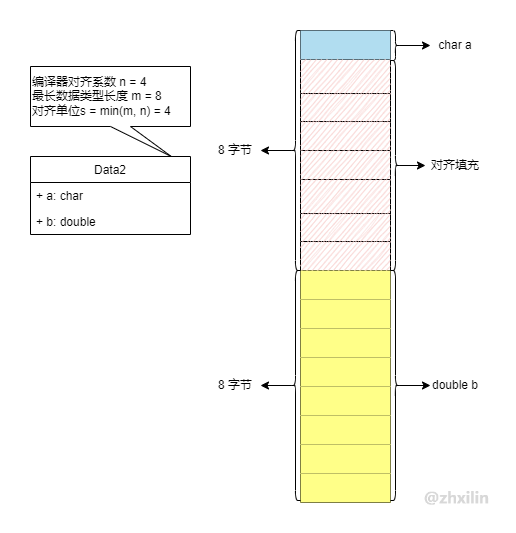
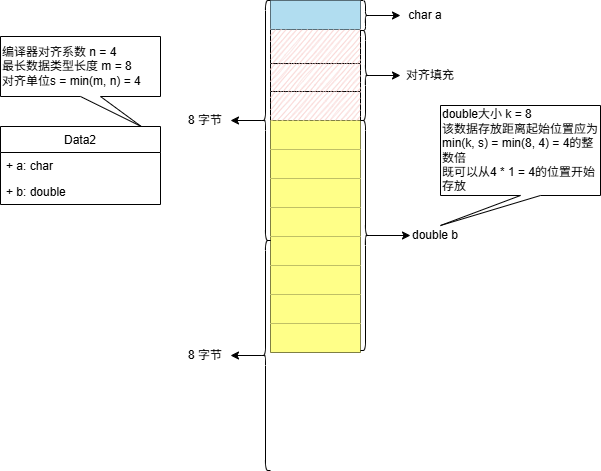
Update post 'memory_alignment'

diff --git a/post/tech_stack/1_programming_language/modern_cpp/language_base/memory_alignment/index.html b/post/tech_stack/1_programming_language/modern_cpp/language_base/memory_alignment/index.html
@@ -315,7 +315,7 @@
 <p>整体对齐规则：整个结构体的大小应是对齐单位<code>s</code>的整数倍。</p>
 </li>
 </ul>
-<p>接下来我们通过一些例子来体会内存对齐规则。</p>
+<p>接下来我们通过一些例子来体会内存对齐规（以gcc编译器对齐系数<code>4</code>为分析环境）。</p>
 <h3 id="case-1">case 1</h3>
 <div class="highlight"><pre class="chroma"><code class="language-cpp" data-lang="cpp"><span class="ln">1</span><span class="k">struct</span> <span class="nc">Data1</span> <span class="p">{</span>
 <span class="ln">2</span>    <span class="kt">char</span> <span class="n">a</span><span class="p">;</span>
@@ -330,7 +330,7 @@
 <span class="ln">3</span>    <span class="kt">double</span> <span class="n">b</span><span class="p">;</span>
 <span class="ln">4</span><span class="p">};</span>
 <span class="ln">5</span>
-<span class="ln">6</span><span class="n">std</span><span class="o">::</span><span class="n">cout</span> <span class="o">&lt;&lt;</span> <span class="k">sizeof</span><span class="p">(</span><span class="n">Data2</span><span class="p">)</span> <span class="o">&lt;&lt;</span> <span class="n">std</span><span class="o">::</span><span class="n">endl</span><span class="p">;</span> <span class="c1">//16
+<span class="ln">6</span><span class="n">std</span><span class="o">::</span><span class="n">cout</span> <span class="o">&lt;&lt;</span> <span class="k">sizeof</span><span class="p">(</span><span class="n">Data2</span><span class="p">)</span> <span class="o">&lt;&lt;</span> <span class="n">std</span><span class="o">::</span><span class="n">endl</span><span class="p">;</span> <span class="c1">//12
 </span></code></pre></div><p><img src="/images/memory_alignment_case2.png" alt="内存对齐case2"></p>
 <h3 id="case-3">case 3</h3>
 <div class="highlight"><pre class="chroma"><code class="language-cpp" data-lang="cpp"><span class="ln">1</span><span class="k">struct</span> <span class="nc">Data3</span> <span class="p">{</span>
@@ -377,7 +377,7 @@
 <span class="ln">3</span>    <span class="kt">double</span> <span class="n">b</span><span class="p">;</span>
 <span class="ln">4</span><span class="p">};</span>
 <span class="ln">5</span>
-<span class="ln">6</span><span class="n">std</span><span class="o">::</span><span class="n">cout</span> <span class="o">&lt;&lt;</span> <span class="k">sizeof</span><span class="p">(</span><span class="n">Data7</span><span class="p">)</span> <span class="o">&lt;&lt;</span> <span class="n">std</span><span class="o">::</span><span class="n">endl</span><span class="p">;</span> <span class="c1">//24
+<span class="ln">6</span><span class="n">std</span><span class="o">::</span><span class="n">cout</span> <span class="o">&lt;&lt;</span> <span class="k">sizeof</span><span class="p">(</span><span class="n">Data7</span><span class="p">)</span> <span class="o">&lt;&lt;</span> <span class="n">std</span><span class="o">::</span><span class="n">endl</span><span class="p">;</span> <span class="c1">//20
 </span></code></pre></div><p><img src="/images/memory_alignment_case7.png" alt="内存对齐case7"></p>
 <h2 id="延伸">延伸</h2>
 <p>C++不允许一个对象的大小为<code>0</code>，不同对象的地址不能具有相同的地址。</p>
